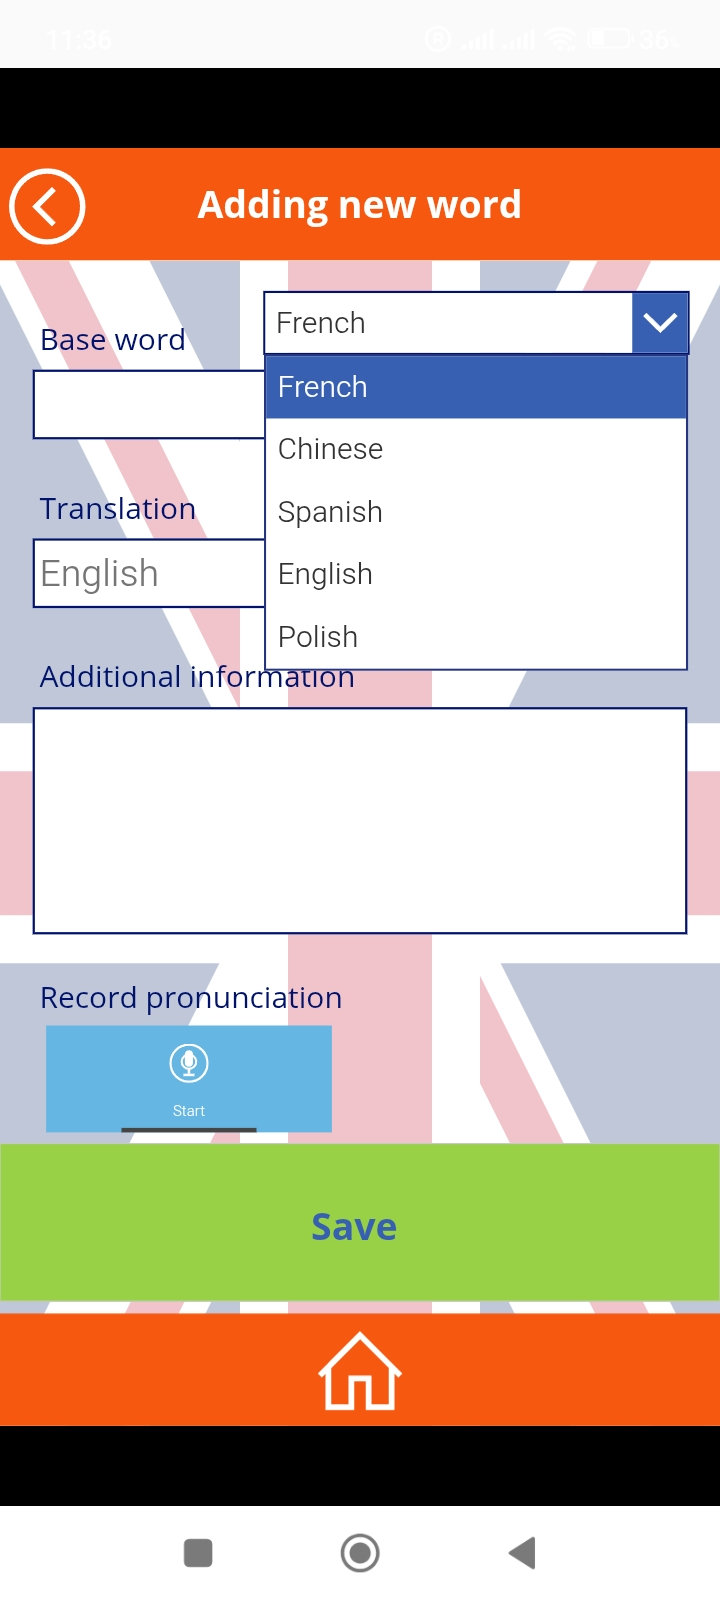
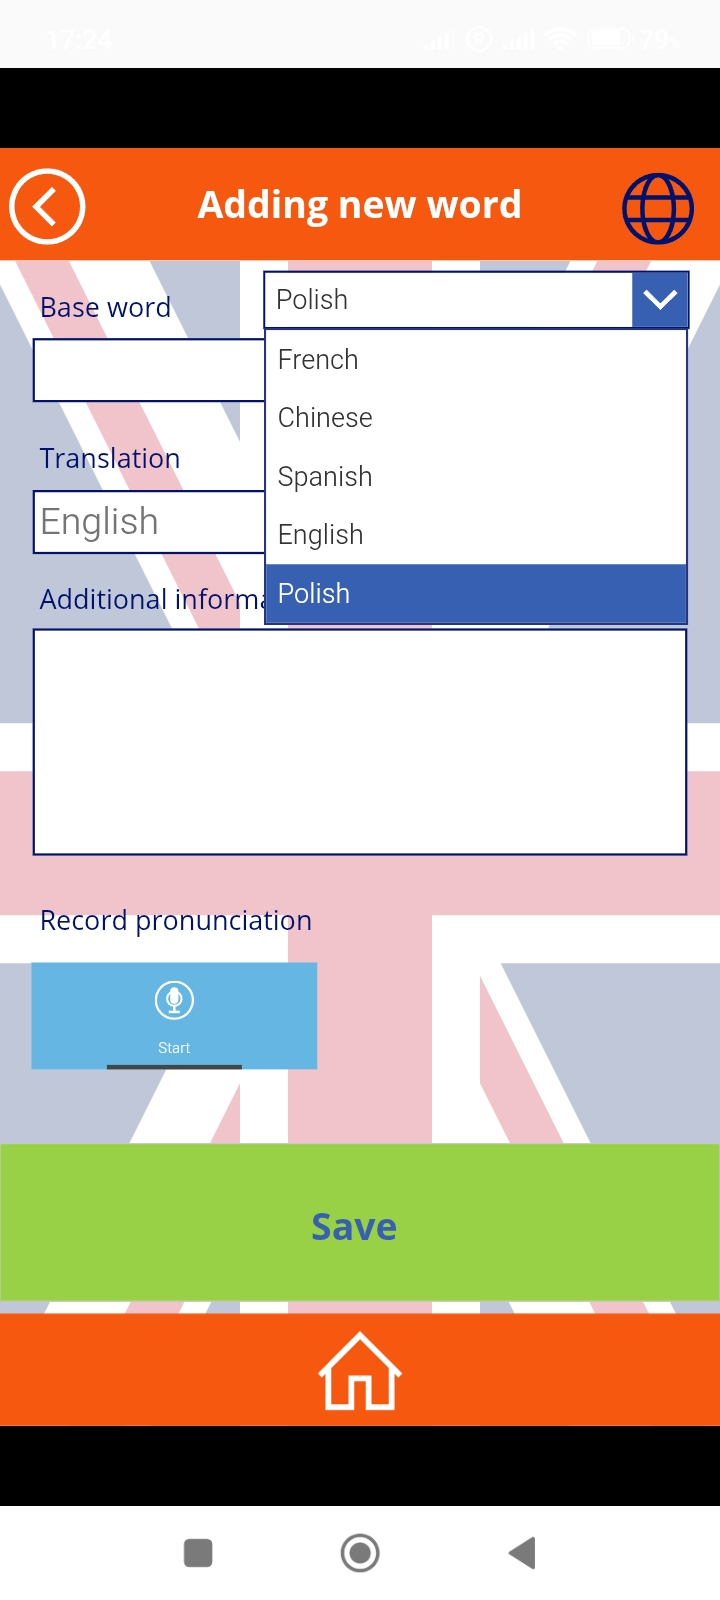
Transcript word feature

Changed region(s): [[0.0306, 0.0938, 0.9778, 0.4688], [0.0306, 0.5312, 0.9778, 0.7188]]

diff --git a/Foreign Words Dictionary/README.md b/Foreign Words Dictionary/README.md
@@ -12,14 +12,15 @@ After opening the app the list of preselected foreign languages is displayed. Us
 <p><b>List of languages screen</b></p>
 <img src="/Foreign Words Dictionary/Images/WelcomeScreen.jpg" width="200">
 
-On the next screen a menu is displayed. User can add a new word, browse the list of already provided words, or do a 'daily task'. The flag in the screen's background indicates the chosen language.
+On the next screen a menu is displayed. User can add a new word, browse the list of already provided words, do a 'daily task', or transcript a word (speech-to-text feature). The flag in the screen's background indicates the chosen language.
 
 <p><b>Menu screen</b></p>
 <img src="/Foreign Words Dictionary/Images/MenuScreen.jpg" width="200">
 <br>
 
 <p><b>Add new word</b><p>
-<p>In order to add a new word the user has to choose the 'base word' language, that is language the user already speaks. Then a base word has to be entered, and next the meaning (translation) in the chosen language to learn. The field 'Additional information' is optional, but here some use cases of the new word can be provided. There is also the option to record pronunciation of the new word.</p>
+<p>In order to add a new word the user has to choose the 'base word' language, that is language the user already speaks. Then a base word has to be entered, and next the meaning (translation) in the chosen language to learn. The field 'Additional information' is optional, but here some use cases of the new word can be provided. Instead of entering the translation and use cases manually, the user can utilize AI by clicking on www icon in the top-right corner of the screen. It runs a Power Automate flow that prompts DeepSeek and populates output in the 'Translation' and 'Additional information' fields.
+There is also the option to record pronunciation of the new word.</p>
 
 <img src="/Foreign Words Dictionary/Images/AddNewWordScreen.jpg" width="200">
 <br>
@@ -45,4 +46,15 @@ A scheduled Power Automate flow is used to send a notification to the user as a 
 <img src="/Foreign Words Dictionary/Images/DailyTaskCheckScreen.jpg" width="200">
 <br>
 
-The toggle in the header of the screen gives the user an option to switch the base word with the translation, so the user can translate in the 'opposite direction'. 
+The toggle in the header of the screen gives the user an option to switch the base word with the translation, so the user can translate in the 'opposite direction'.
+
+<p><b>Transcript word</b><p>
+<p>Here the user can utilize speech-to-text feature. The transcribed word is added to the list and saved in the Dataverse. By clicking a word in the list the 'Add new word' sceen will be dispalyed with the clicked word as the word to translate. Then the user can provide missing details manually or use AI option.,
+I personally use this feature mainly while reading a book. It is more convenient just to record a list of new words instead of having to type them in.</p>
+
+<img src="/Foreign Words Dictionary/Images/TranscriptionsScreen.jpg" width="200">
+<br>
+
+<img src="/Foreign Words Dictionary/Images/NewWordInfo.jpg" width="200">
+<br>
+
